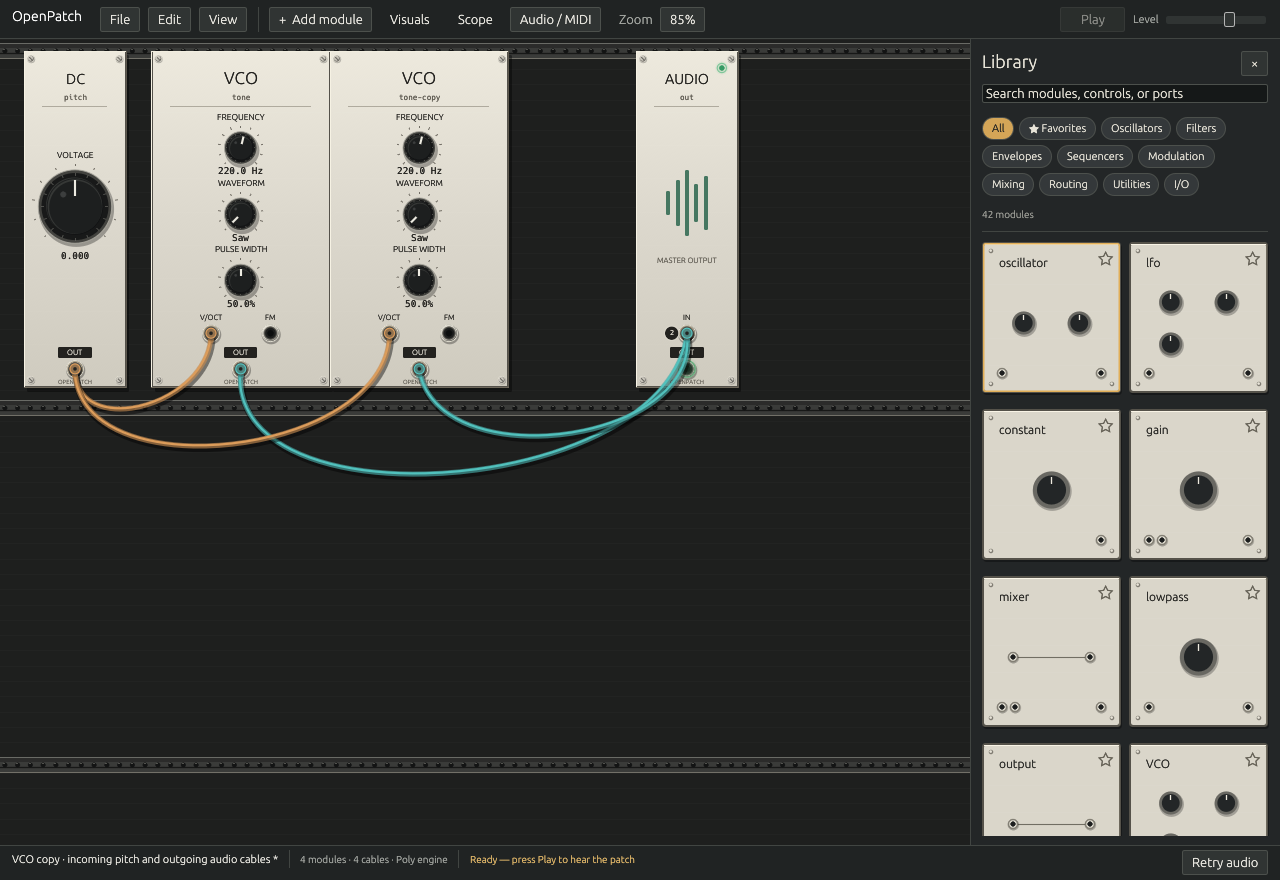
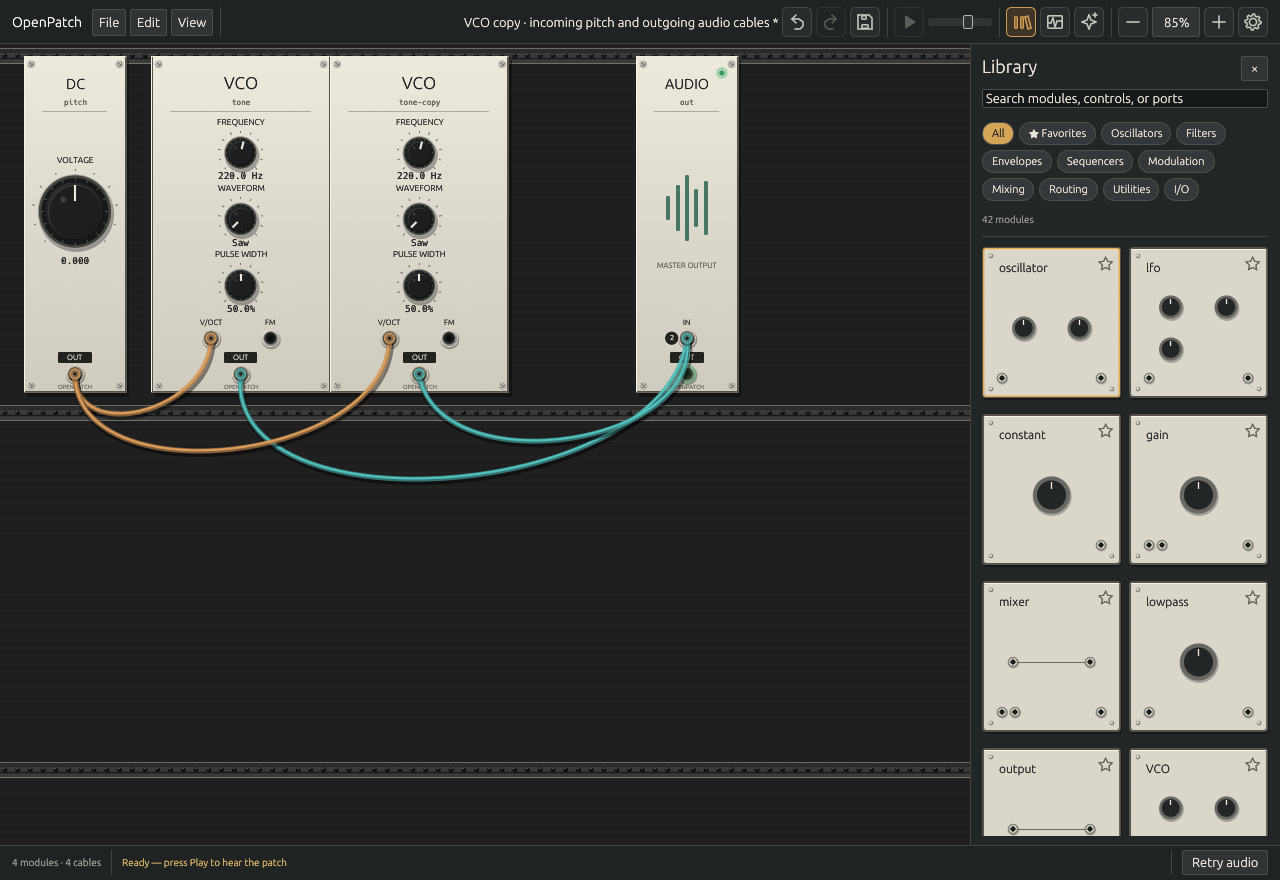
Refresh Studio Rack previews for transport and analysis dock [skip ci]

diff --git a/design/redesign-concepts/README.md b/design/redesign-concepts/README.md
@@ -11,20 +11,37 @@ Generated with the built-in image generation tool on 2026-10-13. These are visua
 
 Selected direction: **01 — Studio Rack**, chosen by the user on 2026-10-13. Use its rack-first composition, warm aluminum faceplates, tactile dark controls, restrained amber lighting and clear cable paths as the native application's visual foundation. The other concepts remain alternatives for future exploration, not approved replacements for this direction.
 
-Implemented so far: procedural rack materials, matching graphite application chrome and a docked thumbnail library with search, role filters, favorites, keyboard access and drag-to-add previews. The next pass adds a compact transport toolbar and a shared Scope/Visuals measurement dock with advanced controls in a popup. These changes follow the reference's composition without claiming its entire mockup is implemented. Keep actual port definitions, control geometry and signal behavior authoritative over generated details.
+Implemented so far: warm panel materials, graphite application chrome, a docked
+module library, direct transport/save/history controls, and a shared Scope/Visuals
+analysis dock. These changes follow the reference's composition without claiming
+every detail of the generated mockup is implemented. Actual port definitions,
+control geometry and signal behavior remain authoritative.
 
 ## Native implementation progress
 
-![First Studio Rack material pass in the actual OpenPatch application](../../docs/images/openpatch-rack.png)
+![Studio Rack materials and transport toolbar in OpenPatch](../../docs/images/openpatch-rack.png)
 
-The first pass adds smoothly lit warm aluminum panels, beveled edges, machined knobs, recessed jacks, amber selection outlines, raised cable shading and graphite application controls. Existing control positions and patching interactions remain in place. This is an actual Linux/Mesa native render from [commit 4483066](https://github.com/dexterlabs1/openpatch/commit/448306620e42f72edab2767a9cd8455660af4ffe), separate from the generated concepts below; it does not establish macOS device or playback qualification.
+Warm aluminum panels, machined knobs, recessed jacks, amber selection and shaded
+cables sit beneath a compact toolbar. The project title truncates to keep
+transport, save/history, library, scope, visuals and zoom controls accessible.
 
-![Docked Studio Rack library in the actual OpenPatch application](../../docs/images/openpatch-library.png)
+![Docked Studio Rack library in OpenPatch](../../docs/images/openpatch-library.png)
 
-The second pass adds a resizable right library with compact module previews, search,
-role filters, saved favorites, keyboard navigation and drag placement. This native
-render is from [commit dda4dc7](https://github.com/dexterlabs1/openpatch/commit/dda4dc7b9c48043338a2383724bc068fc65fe726).
-The library was also reviewed at the 940 × 680 minimum window size.
+The resizable library has module previews, search, role filters, saved favorites,
+keyboard navigation and drag placement. It stays open while editing the rack.
+
+![Scope, library and keyboard at the minimum window size](../../docs/images/openpatch-analysis-compact.png)
+
+Scope and Visuals share a bounded bottom dock. Scope retains capture across tab
+switches, shows each monitored voice, and keeps detailed trigger/offset controls
+in an Advanced popup. Closing the dock disarms probes. The minimum 940 × 680
+layout was reviewed with the library, keyboard and a previously enlarged dock.
+
+These are actual Linux/Mesa native renders from
+[commit fba176e](https://github.com/dexterlabs1/openpatch/commit/fba176edcc0de17e0333a7ffd05b6b9d4bedba2a),
+separate from the generated concepts below. Scope traces shown are offline
+calibration fixtures; these renders do not establish macOS device or playback
+qualification.
 
 ## Visual previews
 

diff --git a/README.md b/README.md
@@ -22,7 +22,7 @@
 </p>
 
 ![OpenPatch native rack with a VCO, ladder filter, OTA VCA, ADSR, gate clock, and audio output](docs/images/openpatch-rack.png)
-<p align="center"><sub>Studio Rack material pass in the native desktop app, rendered on Linux with Mesa in CI. macOS is the primary design target.</sub></p>
+<p align="center"><sub>Studio Rack panels, transport toolbar and analysis dock in the native desktop app, rendered on Linux with Mesa in CI. macOS is the primary design target.</sub></p>
 
 - **An instrument you can patch.** Turn rotary controls, connect cables, and arrange modules on rack rails. Live edits preserve oscillator phase and circuit memory.
 - **A reference analog voice.** Explore a nonlinear transistor ladder, OTA VCA, and switched RC envelope alongside an idealized ramp VCO, gate clock, and voltage/audio interface. Each model has [documented assumptions and validation](docs/ANALOG_MODELS.md).
